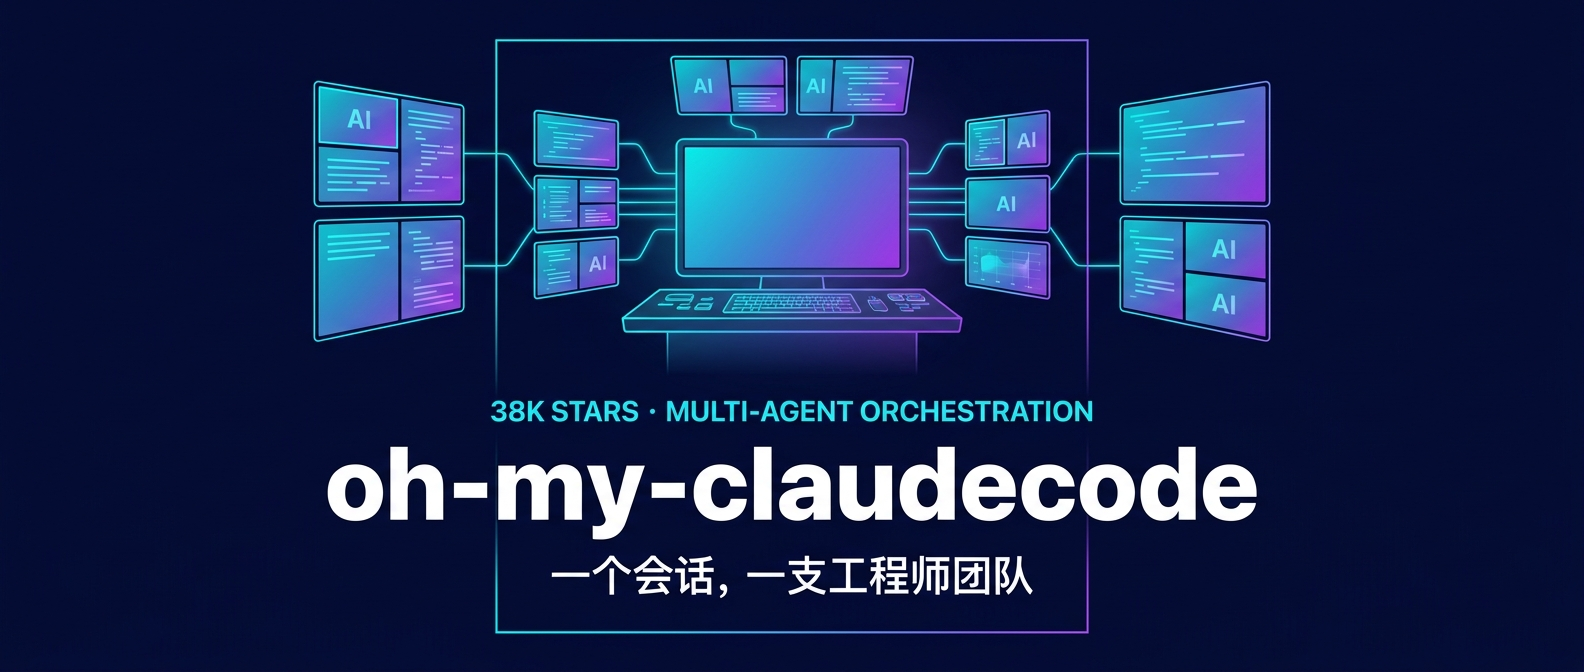
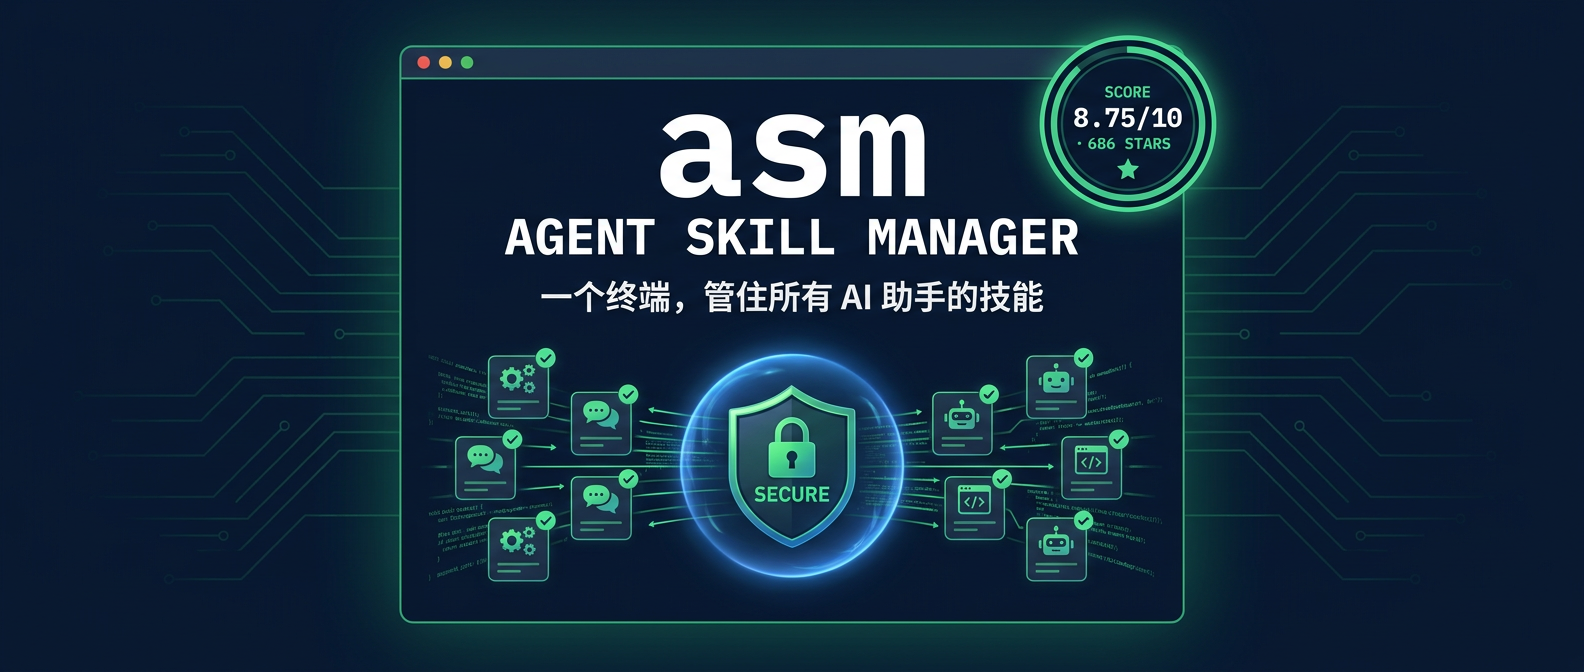
每日更新: 一天一个skill 2026-08-16 (第2版: asm)

diff --git a/skill/2026-08-16/一天一个skill-2026-08-16.md b/skill/2026-08-16/一天一个skill-2026-08-16.md
@@ -3,110 +3,108 @@ tags: [skill, agent, daily-recommend]
 date: 2026-08-16
 ---
 
-# oh-my-claudecode — 一个会话，一支多模型工程师团队
+# asm — 一个终端，管住你所有 AI 编程助手的技能
 
-  Claude Code 是单线程的：改文件、跑测试、再改下一个文件，一次一件。项目一大，你就只能看着它排队干活。oh-my-claudecode 把这件事推倒重来——19 个专职 agent、5 阶段 Team 流水线、还能把 Codex/Gemini/Grok/Cursor 的 CLI 拉进 tmux 分屏当工人。38,569 stars，MIT 协议，2026 年 1 月 9 日创建，7 个半月涨到 GitHub 上最热的 Claude Code 编排层。
+  你的 `~/.claude/skills/` 里躺着 40 个技能，`~/.codex/skills/` 里还有十几个，Cursor 那边又装了一份：哪些重复了、哪个半年没更新了、哪个里面藏着 `curl | bash`，没人说得清。agent-skill-manager（asm）就是来管这件事的：一个 CLI 加一个 TUI，盘点、安装、审计、评分，覆盖 Claude Code、Codex、Cursor 等 19 种 agent 工具。686 stars，MIT 协议，v2.13.0，2026 年 3 月发布以来迭代了 48 个版本。
 
-  30 天前（07-18）推过的 workflow-orchestrator 也是做多 agent 编排的，但它走 hooks 驱动任务树的路子，75 stars。oh-my-claudecode 热度是它的 500 多倍，子问题也不同：前者把一句话拆成树，后者把整个终端变成指挥室，还跨模型——同类领域，完全不同的量级和玩法。
+  7 月 27 日推荐过的 npx skills 解决的是"装"，一条命令把技能放进对应目录。asm 解决的是"装完之后"：装了多少、有没有重复、安不安全、值不值得留。两个工具解决的问题不在同一层。
 
 ---
 
-![[omc-demo-1.jpg]]
+![[asm-demo-1.png]]
+（asm 不带参数启动的 TUI 主界面：按 Tab 切换全局/项目范围，`/` 过滤，`d` 卸载）
 
 ### 它解决什么问题
 
-  一个人用 Claude Code 做大任务，会撞上三堵墙。第一堵是串行：改 50 个文件，Claude 一个一个来，你在旁边等。第二堵是失忆：任务做到一半会话断了，上下文没了，重开一次重新来过。第三堵是单模型：Claude 写代码还行，但 UI 审美、安全审查、文档表达，换个模型往往更强——你的 Codex 订阅和 Gemini 订阅在边上闲着。
+  技能生态跑了一年多，出现了一个和当年 npm 一样的问题：目录没人管。每个 agent 工具都有自己的技能目录和安装方式，装多了之后：
 
-  oh-my-claudecode 对症下药：并行执行用 Team 模式，防失忆用 verify/fix 循环和持久状态，跨模型用 tmux CLI workers。装完之后你只负责说"要什么"，拆解、派活、验证、返工这一套由它管。
+  - 同一个技能在不同 agent 目录下各有一份，版本还不一样
+  - 装之前不知道这个技能在 GitHub 上多少 star、多久没更新
+  - 从网上随手装的技能，没人审过里面的脚本
+
+  asm 用一个工具接管这些事。它扫描你机器上所有主流 agent 的技能目录，汇总成一张表；装新技能时校验 SKILL.md、锁 commit、给出元数据；内置安全审计和 eval 评分框架，让"这个技能能不能装"有依据而不是凭感觉。
 
 ### 核心原理
 
-  OMC 是架在 Claude Code 原生扩展点上的一层 TypeScript。它不重写客户端，只用 Claude Code 自己的 hooks、skills 和实验性 Agent Teams 能力——这是它和那些绕过官方订阅条款的壳子的关键区别。
+  asm 的机制可以拆成三层。
 
-  三个运行时：
+  第一层是扫描。它按 19 种 agent 工具的目录约定（`~/.claude/skills/`、`~/.codex/skills/` 等）发现已装技能，同时维护一个注册表（ASM Registry）：3,800+ 技能、35 个仓库、16 个分类，索引里带每个技能的来源仓库、stars 和技能数。`asm install code-review` 这种裸名安装就是从注册表解析的，解析到具体仓库后 clone 精确 pin 的 commit，不追 main。
 
-  **Team 流水线（会话内）**。`/team 3:executor "修所有 TypeScript 报错"` 触发一条固定管线：team-plan 拆任务 → team-prd 出实施说明 → team-exec 多 agent 并行实现 → team-verify 验证 → team-fix 返工，验证不过就循环。底层是 Claude Code 原生团队能力，需要开 `CLAUDE_CODE_EXPERIMENTAL_AGENT_TEAMS=1`，没开就退化成顺序执行。
+  第二层是审计。`asm audit` 对比各 agent 目录，找出内容相同的重复技能；`asm audit security <skill>` 扫描技能内的脚本和引用，给出安全结论。这类检查对带 `scripts/` 的技能尤其要紧，纯声明式 SKILL.md 风险低，带可执行脚本的技能权限和你自己一样大。
 
-  **tmux CLI workers（终端侧）**。`omc team 2:codex "审查 auth 模块"` 会在 tmux 分屏里拉起两个真实的 codex 进程，干完就退，不留常驻资源。codex、gemini、antigravity（agy）、grok、cursor-agent、claude 都能当工人，各干各擅长的：Codex 做审查分析，Gemini/Antigravity 做 UI 和文档，Claude 当指挥。
+  第三层是评估。`asm eval <skill>` 给技能打分并输出改进建议，评估器是可插拔的（`asm eval-providers list` 列出已注册的 provider）。打分不靠 LLM 拍脑袋，是注册的 provider 程序按固定维度算出来的。
 
-  **模型路由**。19 个专职 agent 每个绑定了模型档位：architect、analyst、critic 用 Opus，executor、qa-tester 用 Sonnet，explore、writer 用 Haiku。简单活不烧旗舰模型的 token，官方称这能省 30-50% 成本。
+  CLI 是主界面，所有命令支持 `--json` 和 `--yes`，脚本和 CI 里可以直接调用，agent 自己也能用。TUI 是可选的本地浏览层，用 Ink（React 渲染终端界面）实现。
 
 ### 安装配置
 
+  Node.js 18+ 环境，一行命令：
+
 ```bash
-# 第 1 步：装插件（Claude Code 会话内，两条命令分开执行）
-/plugin marketplace add https://github.com/Yeachan-Heo/oh-my-claudecode
-/plugin install oh-my-claudecode
-
-# 第 2 步：初始化（会话内）
-/setup
-
-# 第 3 步（可选）：Team 模式需要开原生团队实验开关
-# ~/.claude/settings.json
-{
-  "env": {
-    "CLAUDE_CODE_EXPERIMENTAL_AGENT_TEAMS": "1"
-  }
-}
+npm install -g agent-skill-manager
 ```
 
-想用终端侧 `omc` 命令（tmux workers、HUD），再装 npm 包：
+  Windows 用户走 npm 方式即可（官方的一行 curl 脚本是 bash 版）。装完直接 `asm` 进入 TUI，或 `asm --help` 看全部命令。
+
+  首次使用先盘点现状，再装新技能：
 
 ```bash
-npm i -g oh-my-claude-sisyphus@latest
-omc setup
+asm list                            # 列出所有已装技能
+asm stats                           # 各 agent 技能数、磁盘占用汇总
+asm search code-review              # 搜索注册表
+asm inspect <skill-name>            # 看元数据：stars、来源、更新时间
+asm install github:owner/repo       # 从 GitHub 装
+asm install github:owner/repo --path skills/code-review   # 多技能仓库装指定子目录
+asm install github:owner/repo -p claude -y --json   # 只装到 Claude Code，非交互
 ```
 
 ### 使用指南
 
-#### 场景一：大范围重构，3 个 agent 并行改
+#### 场景一：跨 agent 盘点库存，找重复
 
-  项目升级后 40 多个文件有类型报错，你不想一个一个来。触发：`/team 3:executor "fix all TypeScript errors"`。Team 模式先出计划，再把文件按依赖切成任务，3 个 executor 并行改，改完 verify 跑构建和测试，有漏的进 fix 循环。你在状态栏的 HUD 里能看到每个 agent 在干什么。
+  机器上同时装了 Claude Code、Codex 和 Cursor，技能目录各自为政。跑 `asm list` 拿到全部技能的合并视图，`asm stats` 看各 agent 的技能数和磁盘占用，`asm audit` 揪出同一个技能的多份副本。清理干净之后，agent 上下文里少了一堆重复的技能描述，触发准确度也会好一些。
 
-#### 场景二：跨模型交叉审查一个 PR
+![[asm-demo-2.png]]
+（asm stats 输出：技能总数、磁盘占用、按 agent 的分布一眼看清）
 
-  你只信 Claude 的代码判断，但想听听别的模型怎么说。触发：`/ccg review this PR`。OMC 把同一个 PR 同时发给 Codex（审架构和逻辑）和 Antigravity（审 UI 组件），Claude 综合两边的意见给你一份结论。三个模型的盲区不一样，交叉验证比单一模型审三遍更有信息量。
+#### 场景二：装技能之前先过安检
 
-#### 场景三：需求说都说不清楚的时候
+  看到一个有意思的技能，不直接 clone。先 `asm search` 确认它在不在注册表里，`asm inspect` 看来源仓库、stars、更新时间；再 `asm audit security <skill-name>` 扫描它带的脚本。7 月推荐的 SkillSpector 是给"已经装上的"技能做体检，asm 把安检放在了安装动作之前。审计通过再装，装的时候锁 commit，升级变成显式决策。
 
-  你脑子里有个"想做个任务管理 app"，细节全没想。触发：`/deep-interview "I want to build a task management app"`。OMC 用苏格拉底式提问追问目标、约束、边界，把含糊想法问到可执行，才进入实现。省的是返工：需求阶段问清 10 分钟，胜过实现阶段推翻重写 2 小时。
+![[asm-demo-3.png]]
+（安全审计输出：逐项检查脚本与引用，给出可安装性结论）
 
-#### 场景四：一句话全自动交付
+#### 场景三：给技能打分，留优汰劣
 
-  需求明确、你懒得盯。触发：`/autopilot "build a REST API for managing tasks"`。单 lead agent 从拆解到测试一条龙，中途不打扰你。或者从终端直接派：`omc team 2:codex "review auth module for security issues"`，开两个 Codex 分屏干审查，你继续写你的代码。
+  技能越装越多，总有几套在用、几套纯占地方。`asm eval <skill-name>` 输出分数和改进建议，`asm bundle list` 看打包好的技能组合。CI 里可以用 `--json` 把评分接进自动化流水线，比如每周跑一次 eval，分数跌破阈值的技能标出来人工复核。
 
 ### 进阶技巧
 
-  **Magic keywords 免记命令**。说话带 `autopilot`、`ralph`、`ulw`、`ralplan` 这些词，对应模式自动触发——说"fast"进最大并行，说"don't stop"进持久模式。README 里叫它零学习曲线，实际用下来确实是记三个词就够日常。
-
-  **Ralph 模式守长任务**。`/ralph "refactor auth"` 进入持久执行：architect 每轮验证，不过就修，直到通过或你喊停。适合那种"必须彻底做完、不能静默烂尾"的活，和 Claude Code 原生 `/goal` 互补——goal 管单个可度量目标，Ralph 管带验证循环的完整交付。
+  `asm bundle install <bundle-name>` 一键装整套技能，新机器初始化时不用逐个敲命令；本地开发技能用 `asm link` 建 symlink，改完 SKILL.md 立刻生效，不用反复复制。因为 CLI 全面支持 `--json` 和 `--yes`，可以让 Claude Code 自己调用 asm 管理自己的技能：盘点、审计、安装都变成 agent 的工具调用，结果结构化可解析。
 
 ### 常见踩坑
 
-  **token 烧得快**。5 阶段流水线和多 agent 并行是用 token 换时间的，官方也不讳言编排会带来 3-5 倍的 API 调用量。小改动、单文件编辑就别上 Team 模式，原生会话更快更便宜。
+  多技能仓库默认只装根目录的 SKILL.md，装集合要用 `--all` 或 `--path` 指到子目录，不然会出现"装完了但只有一个技能"。
 
-  **版本迭代激进**。7 个月发了 230+ 个 release，破坏性变更家常便饭——swarm 关键字已经在 v4.1.7 被移除，Codex/Gemini MCP 服务器在 v4.4.0 被砍掉换成 CLI-first。升级后旧命令失效别惊讶，查 README 的 MIGRATION.md。
+  按裸名从注册表安装会 pin 到索引里的精确 commit，这是安全设计（防止上游改动注入），代价是 `asm install <name>` 不会自动拿到上游最新版，需要重新安装或等注册表更新。私有仓库走 `--transport ssh`，依赖本机 git 的 SSH key 和凭证。
 
-  **多模型 worker 要自己装 CLI**。`omc team 2:codex` 的前提是你机器上装着 Codex CLI 并登录过，gemini/antigravity/grok/cursor 同理。另外 CLI workers 依赖 tmux，Windows 上支持晚于 Linux/Mac（v4.14 系列刚修了 PowerShell worker 启动和 hook 路径问题）。
-
-  **对官方功能的依赖**。Team 模式骑在 Anthropic 的实验性 Agent Teams 开关上，哪天官方原生团队功能成熟，OMC 这部分护城河会被吞掉——社区博客里已经有人点出这个风险。装的时候清楚这一点：它今天好用，未必永远独有。
+  Node 版本要 18+。Windows 上如果系统默认还是老 Node（比如 14），先切版本再装，不然 TUI 可能起不来。
 
 ### 同类技能对比
 
 | 技能 | 安装方式 | 核心特点 | 适用场景 | 热度 |
 |------|---------|---------|---------|------|
-| **oh-my-claudecode**（今日推荐）| `/plugin install` | 5 阶段 Team 流水线 + 跨模型 tmux workers，零配置 | 大任务并行、跨模型审查、全自动交付 | ⭐ 38.5k |
-| workflow-orchestrator | 插件安装 | hooks 驱动任务树，14 个 hook 覆盖 6 个生命周期 | 喜欢细粒度控制编排的用户 | ⭐ 75 |
-| am-will/swarms | `npx skills add` | 依赖感知规划 + 波次并行执行 | 依赖复杂的分阶段任务 | ⭐ 226 |
-| CCteam-creator | 插件安装 | 文件式计划 + 角色协作 + CI 强制检查 | 想要强制工程流程的团队 | ⭐ 304 |
-| Claude Code 原生 Agent Teams | 实验开关 | 官方能力，按任务动态组队 | 不想引入第三方层的用户 | 官方 |
+| **asm**（今日推荐）| `npm i -g agent-skill-manager` | TUI+CLI 双界面、安全审计、eval 评分、bundle | 多 agent 环境盘点/审计/评估 | ⭐ 686 |
+| npx skills | `npx skills add owner/repo` | 开放标准安装器，支持 70+ agent | 装技能、更新技能 | ⭐ 27.3k |
+| lazyskills | `curl -fsSL https://lazyskills.sh/install` | 纯 TUI 浏览，可视化 agent 可见性 | 只想浏览不想折腾 CLI | ⭐ 218 |
+| skm | `uv tool install skm-cli` | YAML 声明式配置、symlink、幂等 | Linux/macOS 上用户级管理 | ⭐ — |
 
-  推荐理由：它是目前唯一把"多模型 CLI 当工人"这件事做成产品、且装机量最大的编排层。跨模型协同别的项目也有（Metaswarm 做对抗式审查），但 OMC 的零配置和 38k stars 的社区体量，让它成了多数人试多 agent 编排的第一站。
+  npx skills 管安装这一件事，做得很纯粹；asm 管的是安装前后的完整生命周期，审计和评分是它独有的。技能数量上了两位数、或者跨多个 agent 工具的人，两个都装不冲突。
 
-⭐ 8.9 · v4.14.4 · MIT · [GitHub](https://github.com/Yeachan-Heo/oh-my-claudecode) · [官网](https://oh-my-claudecode.dev) · [文档](https://yeachan-heo.github.io/oh-my-claudecode-website)
+⭐ 686 · v2.13.0 · MIT · [GitHub](https://github.com/luongnv89/asm) · [官网](https://luongnv.com/asm/)
 
 ---
 
 ## 今日小结
 
-  适合手里有 Claude Code、又经常被"串行排队、会话失忆、单模型盲区"这三件事拖慢的人。安装 3 条命令，5 分钟上手；日常先用 `/team`、`/ccg`、`/ralph` 三个命令，摸熟了再上 `omc team` 拉 Codex/Gemini 进分屏。代价是 token 翻几倍、版本更新激进，换回来的是 3-5 倍的并行速度和跨模型的交叉验证。大项目重活用它，小改动老实留在原生会话。
+  装了三四个 agent 工具、技能目录开始失控的人，asm 是当下最直接的解药：五分钟装好，先 `asm list` 盘点、再 `asm audit` 去重、装新技能前加一道安检。它不替代 npx skills，而是补上后者不管的那一段。机器上只有一个 agent、技能不到十个，收益有限；反过来，技能越多、跨的 agent 越多，这个 686 stars 的工具越值钱。
